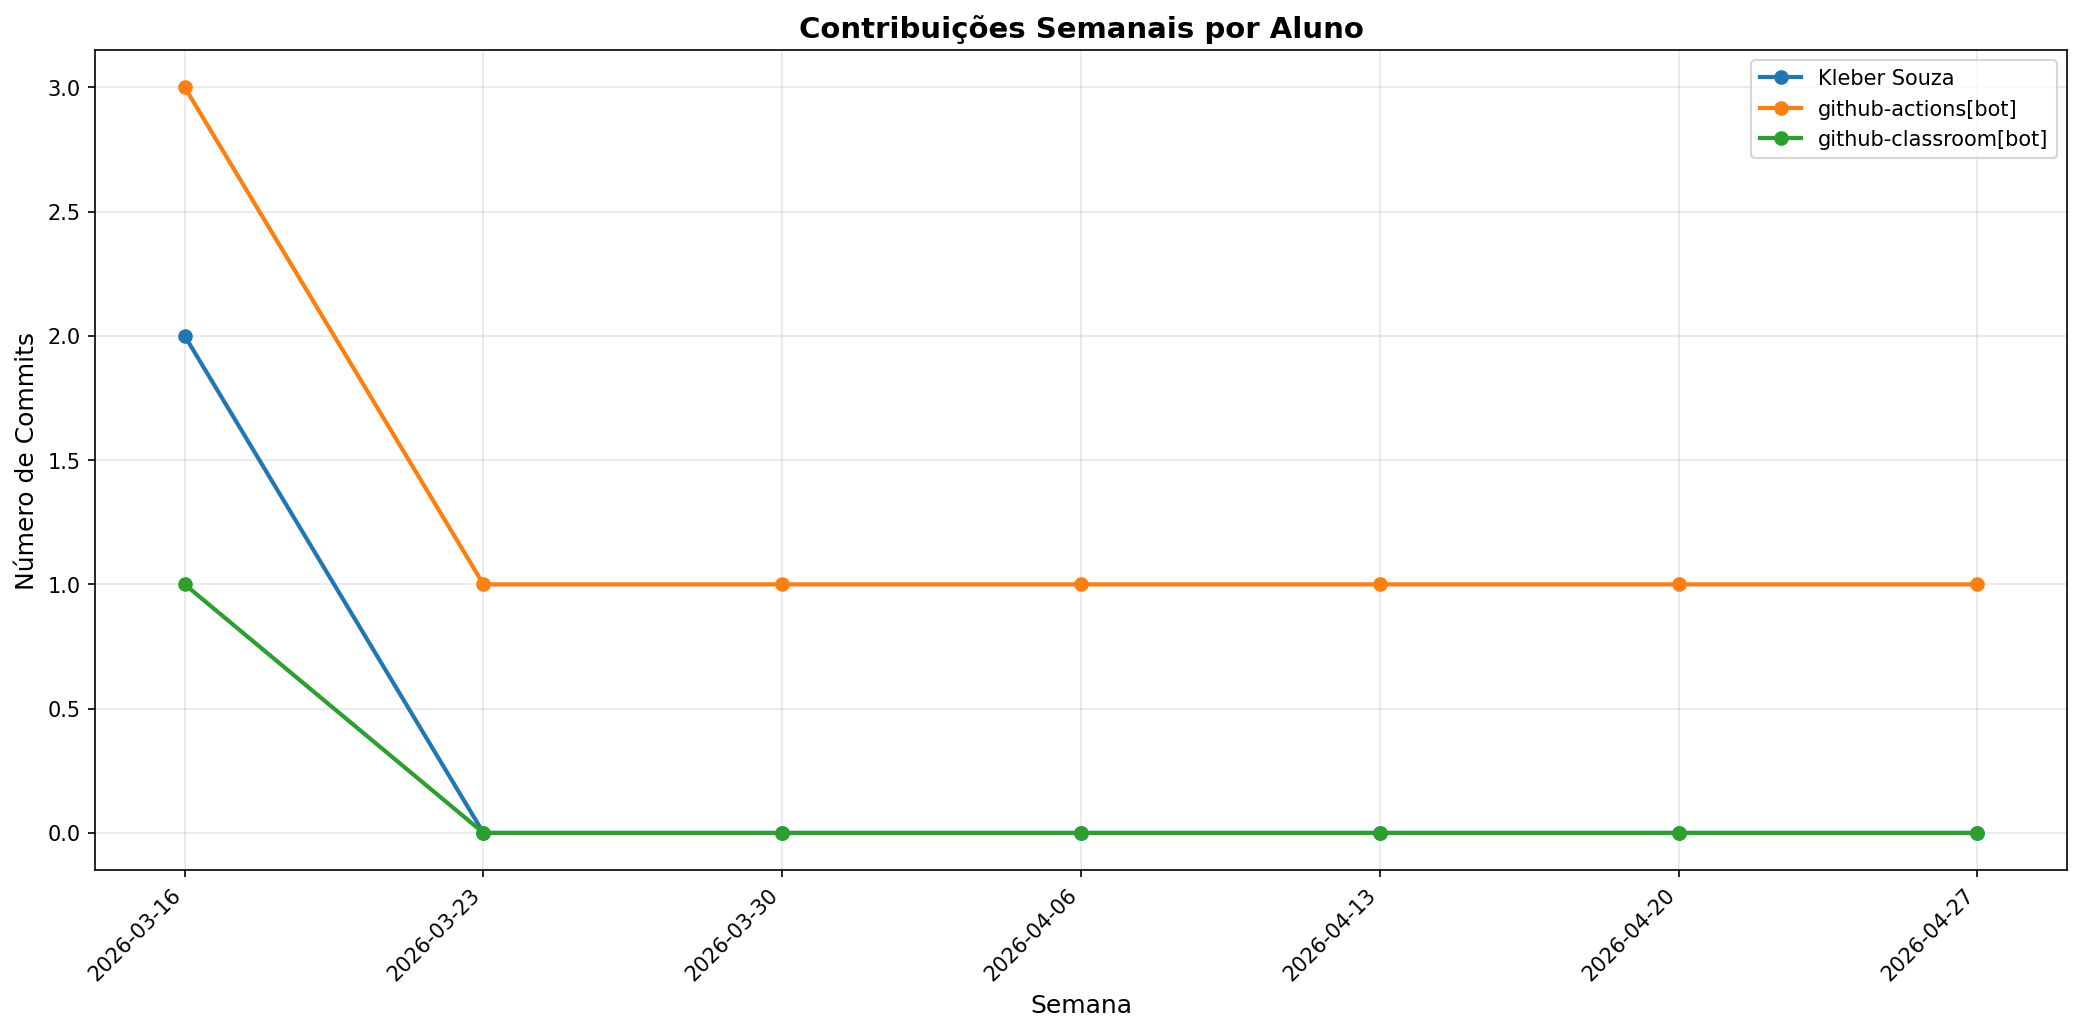
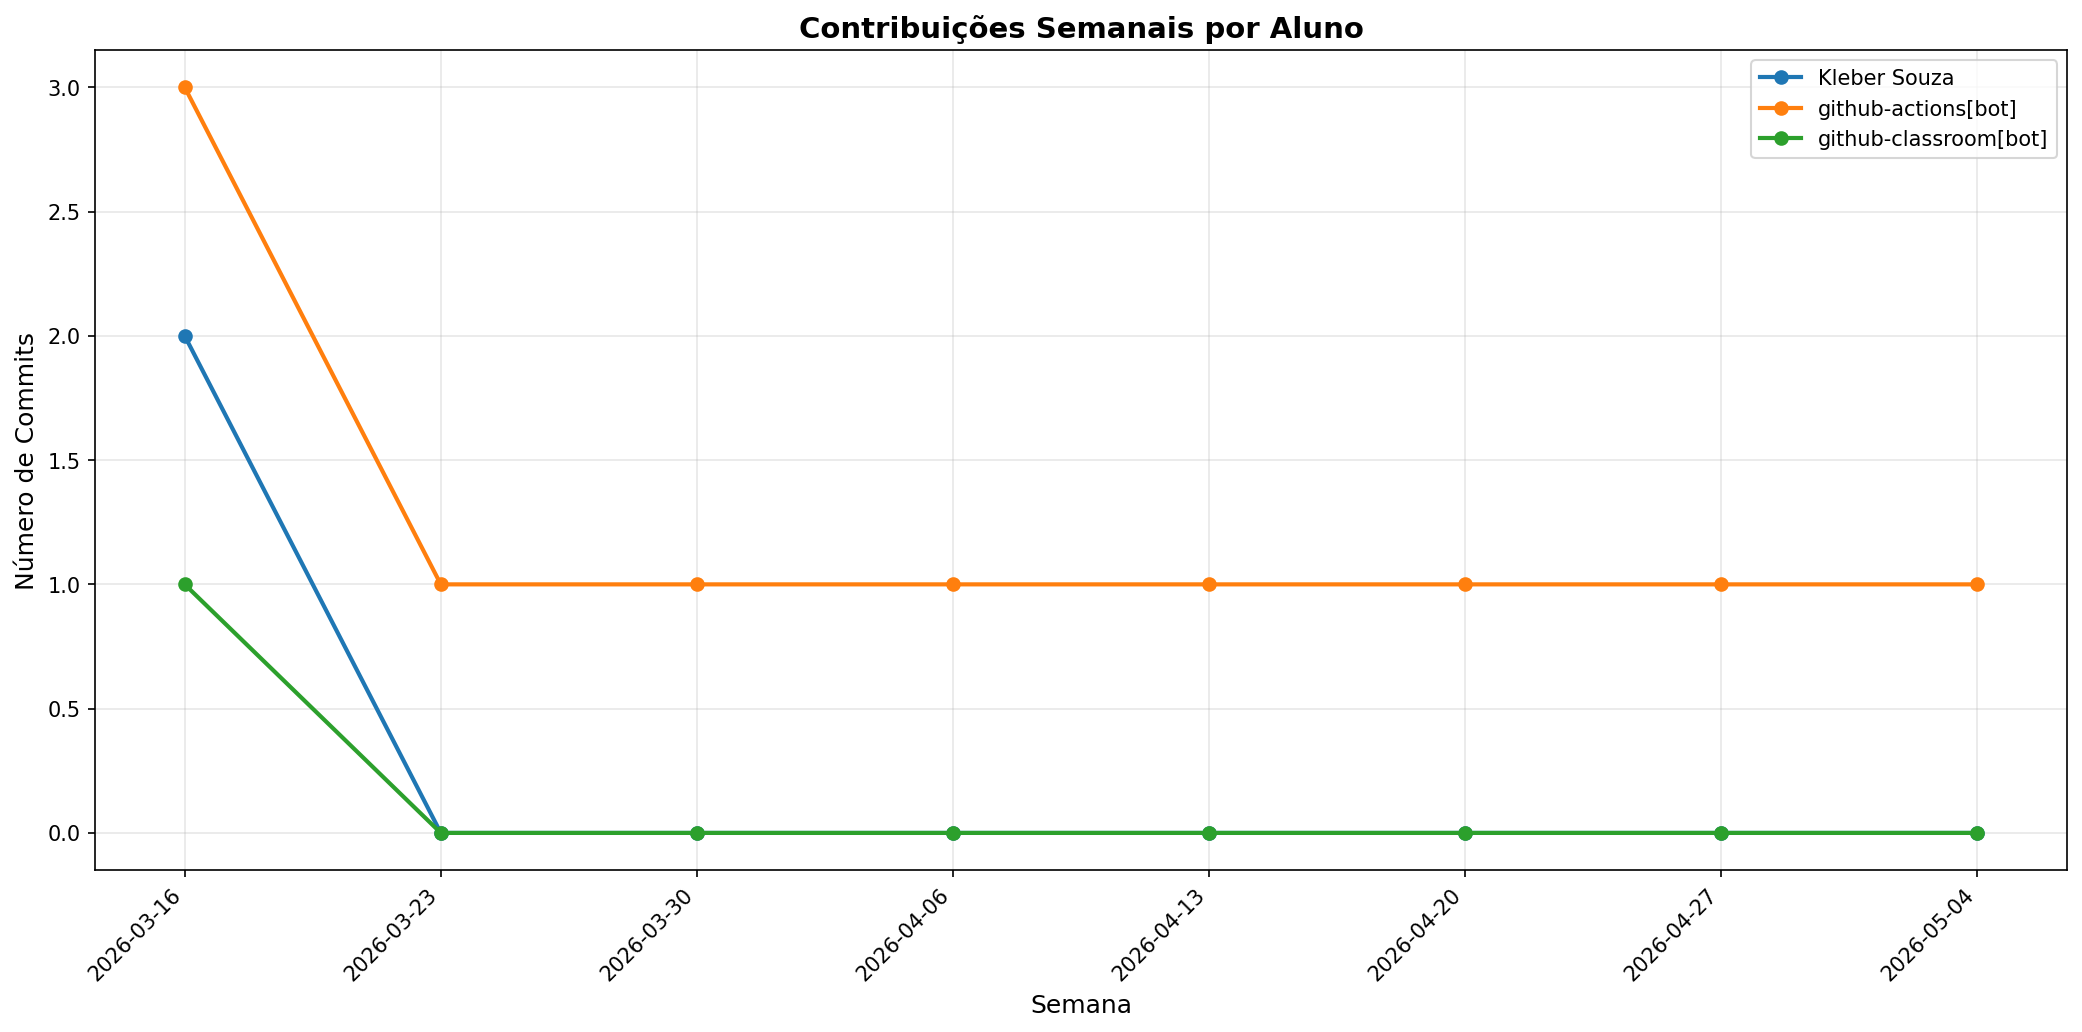
📊 Atualizar relatório de contribuições [skip ci]

diff --git a/documentos/CONTRIBUTION_REPORT.md b/documentos/CONTRIBUTION_REPORT.md
@@ -1,6 +1,6 @@
 # 📊 Relatório de Contribuições do Projeto
 
-**Última atualização:** 11/05/2026 02:48
+**Última atualização:** 18/05/2026 02:55
 
 ---
 
@@ -9,11 +9,13 @@
 | Aluno                 |   Commits |   Linhas+ |   Linhas- |   Arquivos |   Docs Commits |   Docs Arquivos |
 |-----------------------|-----------|-----------|-----------|------------|----------------|-----------------|
 | Kleber Souza          |         2 |         2 |         2 |          2 |              2 |               1 |
-| github-actions[bot]   |         9 |        73 |        18 |          3 |              9 |               1 |
+| github-actions[bot]   |        10 |        77 |        20 |          3 |             10 |               1 |
 | github-classroom[bot] |         1 |       774 |         0 |         19 |              1 |               3 |
 
 
 ## 📅 Contribuições Semanais (Todo o Semestre)
+
+**2026-05-04**: github-actions[bot]: 1
 
 **2026-04-27**: github-actions[bot]: 1
 
